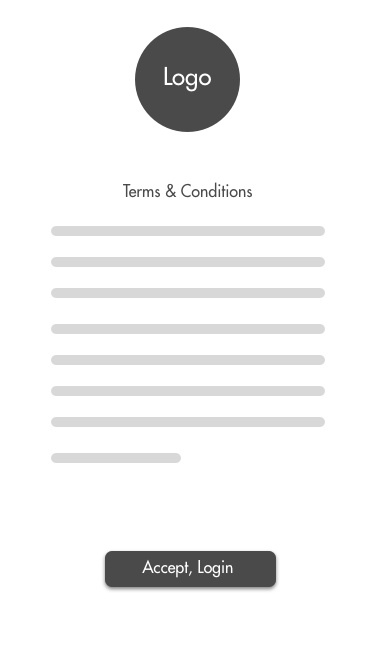
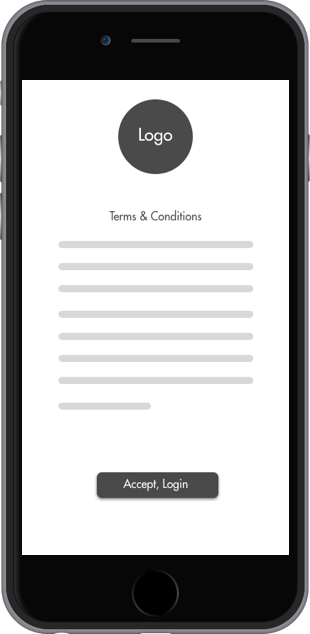
proto1

diff --git a/project/proto1/index.html b/project/proto1/index.html
@@ -4,7 +4,7 @@
 <head>
     <meta charset="UTF-8">
     <title>Interactive Prototype 1</title>
-    <link href="stylesheet.css" rel="stylesheet">
+    <link href="style.css" rel="stylesheet">
     <link href="https://fonts.googleapis.com/css?family=Josefin+Sans" rel="stylesheet">
 </head>
 
@@ -12,7 +12,7 @@
     <header>
         <h1>Interactive Prototype 1</h1>
     </header>
-
+    <img src="images/screen1.png" alt="image">
           
     <footer>
         <a href="index.html" target="_top">Home</a>

diff --git a/project/proto1/style.css b/project/proto1/style.css
@@ -1,0 +1,12 @@
+body {
+	text-align: center;
+	font-family: helvetica;
+}
+
+h1{
+	padding-bottom: 50px;
+}
+
+footer{
+	padding-top: 50px;
+}
